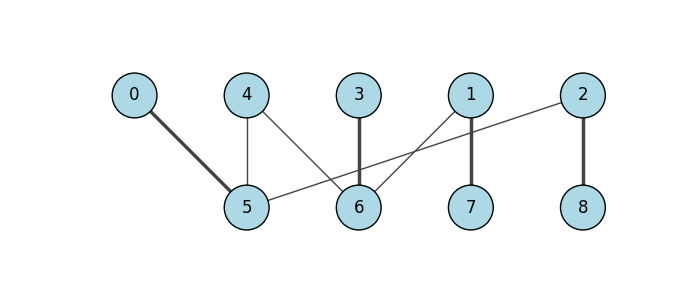
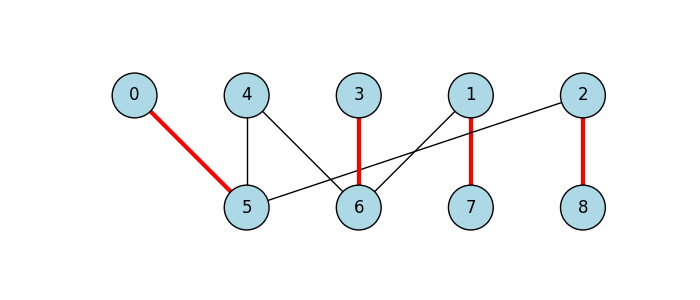
Make matching in bipartite_matching.rst more visible

diff --git a/doc/source/tutorials/bipartite_matching/assets/bipartite_matching.py b/doc/source/tutorials/bipartite_matching/assets/bipartite_matching.py
@@ -27,7 +27,8 @@ ig.plot(
     vertex_size=0.4,
     vertex_label=range(g.vcount()),
     vertex_color="lightblue",
-    edge_width=[2.5 if e.target == matching.match_of(e.source) else 1.0 for e in g.es]
+    edge_width=[3 if e.target == matching.match_of(e.source) else 1.0 for e in g.es],
+    edge_color=["red" if e.target == matching.match_of(e.source) else "black" for e in g.es]
 )
 plt.show()
 

diff --git a/doc/source/tutorials/bipartite_matching/bipartite_matching.rst b/doc/source/tutorials/bipartite_matching/bipartite_matching.rst
@@ -53,7 +53,7 @@ And finally display the bipartite graph with matchings highlighted.
         vertex_size=0.4,
         vertex_label=range(g.vcount()),
         vertex_color="lightblue",
-        edge_width=[2.5 if e.target == matching.match_of(e.source) else 1.0 for e in g.es]
+        edge_width=[3 if e.target == matching.match_of(e.source) else 1.0 for e in g.es]
     )
     plt.show()
 
